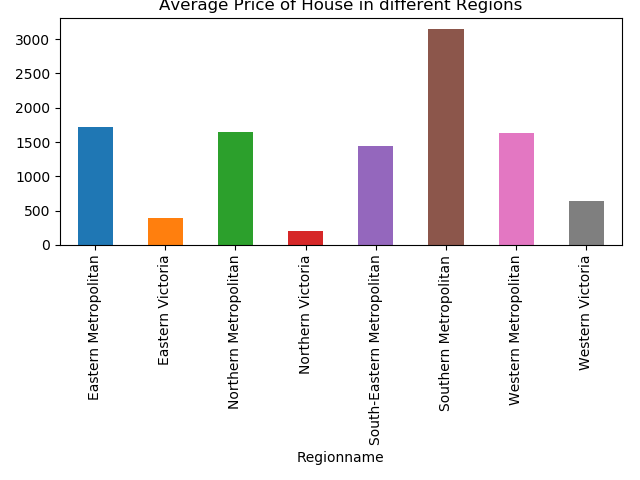
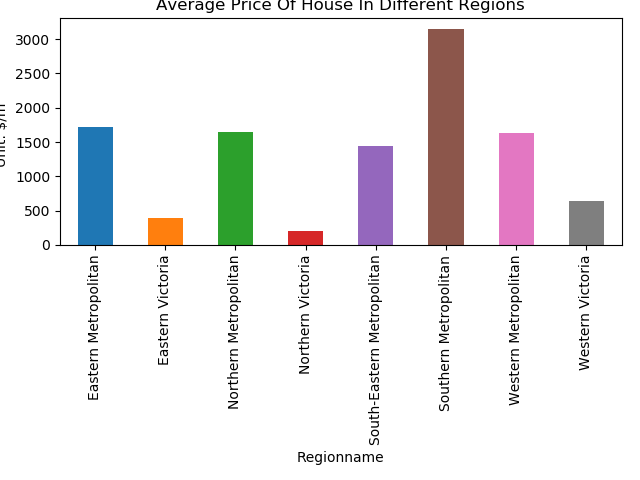
new charts

diff --git a/8.Demo/mlAPI.py b/8.Demo/mlAPI.py
@@ -76,7 +76,7 @@ class PropertyPricePrediction():
         # save some regarding charts
         os.chdir('./images')
         # chart 1:
-        name = f'Average Price of {self.env[1]} in different Regions'
+        name = f'Average Price Of {self.env[1]} In Different Regions'
         if not os.path.exists(name + '.png'):
             CSV1 = train[['Regionname', 'Landsize', 'Price', 'Type']]
             CSV1 = CSV1[CSV1['Type'] == self.type]
@@ -86,37 +86,43 @@ class PropertyPricePrediction():
             try:
                 CSV1.plot.bar()
                 plt.tight_layout()
+                plt.ylabel('Unit: $/m²')
                 plt.title(name)
                 plt.savefig(name + '.png')
             except:
                 pass
 
-        # chart 2:
-        name = f'{self.sellerG}\'s Sales'
+        # chart 2: the average pricein different council area
+        name = f'Average Price Of {self.type} In Different Council Area'
         if not os.path.exists(name + '.png'):
             plt.rcdefaults()
-            CSV3 = train[train['SellerG'] == self.sellerG]
-            CSV3 = CSV3.groupby(by = ['SellerG', "Sold_Year"]).size()
-            CSV3.reset_index(name = 'times')
+            CSV3 = train[['CouncilArea', 'Landsize', 'Price', 'Type']]
+            CSV3 = CSV3[CSV3['Type'] == self.type]
+            CSV3 = CSV3.groupby('CouncilArea').sum()
+            CSV3['Avg'] = CSV3.apply(lambda x: x.Price / x.Landsize, axis = 1)
+            CSV3 = CSV3['Avg']
             try:
                 CSV3.plot.bar()
                 plt.tight_layout()
-                plt.xticks(rotation = 360)
+                plt.ylabel('Unit: $/m²')
                 plt.title(name)
                 plt.savefig(name + '.png')
             except:
                 pass
 
-        # chart 3: seller's sales values in different year
-        name = f'{self.sellerG}\'s Sales'
+        # chart 3: the average price of council area in different year
+        name = f'Average Price Of {self.type} Over Years'
         if not os.path.exists(name + '.png'):
             plt.rcdefaults()
-            CSV3 = train[train['SellerG'] == self.sellerG]
-            CSV3 = CSV3.groupby(by = ['SellerG', "Sold_Year"]).size()
-            CSV3.reset_index(name = 'times')
+            CSV3 = train[['Sold_Year', 'Landsize', 'Price', 'Type']]
+            CSV3 = CSV3[CSV3['Type'] == self.type]
+            CSV3 = CSV3.groupby('Sold_Year').sum()
+            CSV3['Avg'] = CSV3.apply(lambda x: x.Price / x.Landsize, axis = 1)
+            CSV3 = CSV3['Avg']
             try:
                 CSV3.plot.bar()
-                plt.xticks(rotation = 360)
+                plt.tight_layout()
+                plt.ylabel('Unit: $/m²')
                 plt.title(name)
                 plt.savefig(name + '.png')
             except:
@@ -239,5 +245,6 @@ if __name__ == '__main__':
     ppp = PropertyPricePrediction()
     env = [3,'House','S','Greg','None',2.5,2.0,0.0,134.0,'Yarra City Council']
     ppp.setArgs(env)
+    print("Start to predict")
     price = ppp.predict()
     print('The price of this property is: AUD$',price[0])

diff --git a/8.Demo/myProperty.py b/8.Demo/myProperty.py
@@ -133,7 +133,7 @@ def login():
                 return redirect(url_for('searchpage', name=form.username.data))
             else :
                 flash('Incorrect username or password')
- 
+
     return render_template('login.html', form=form)
 
 
@@ -170,4 +170,5 @@ def resultpage():
     "Garage " + args['garage'] + "<br/>" \
 
 if __name__ == '__main__':
-    app.run(debug=True, host='0.0.0.0', port=80)
+    #app.run(debug=True, host='0.0.0.0', port=80)
+    app.run(debug=True, host='127.0.0.1', port=12345)
